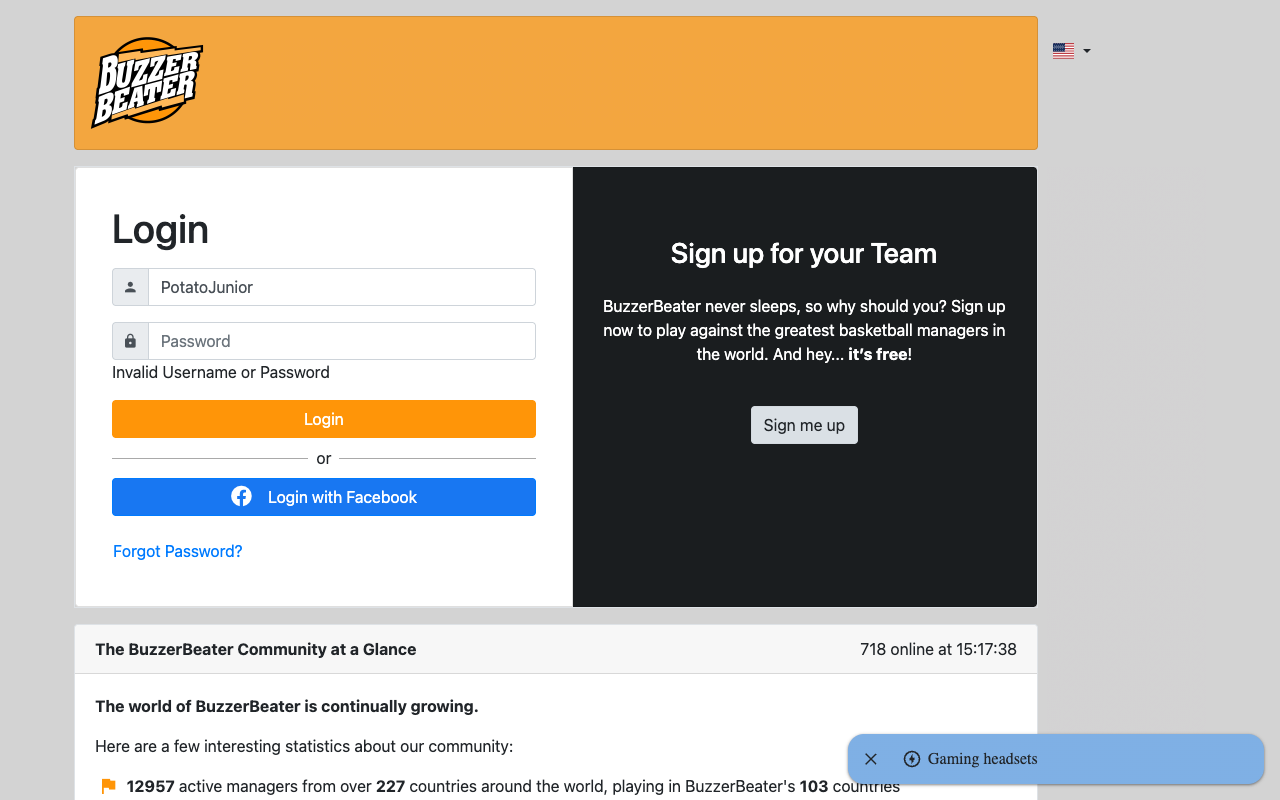
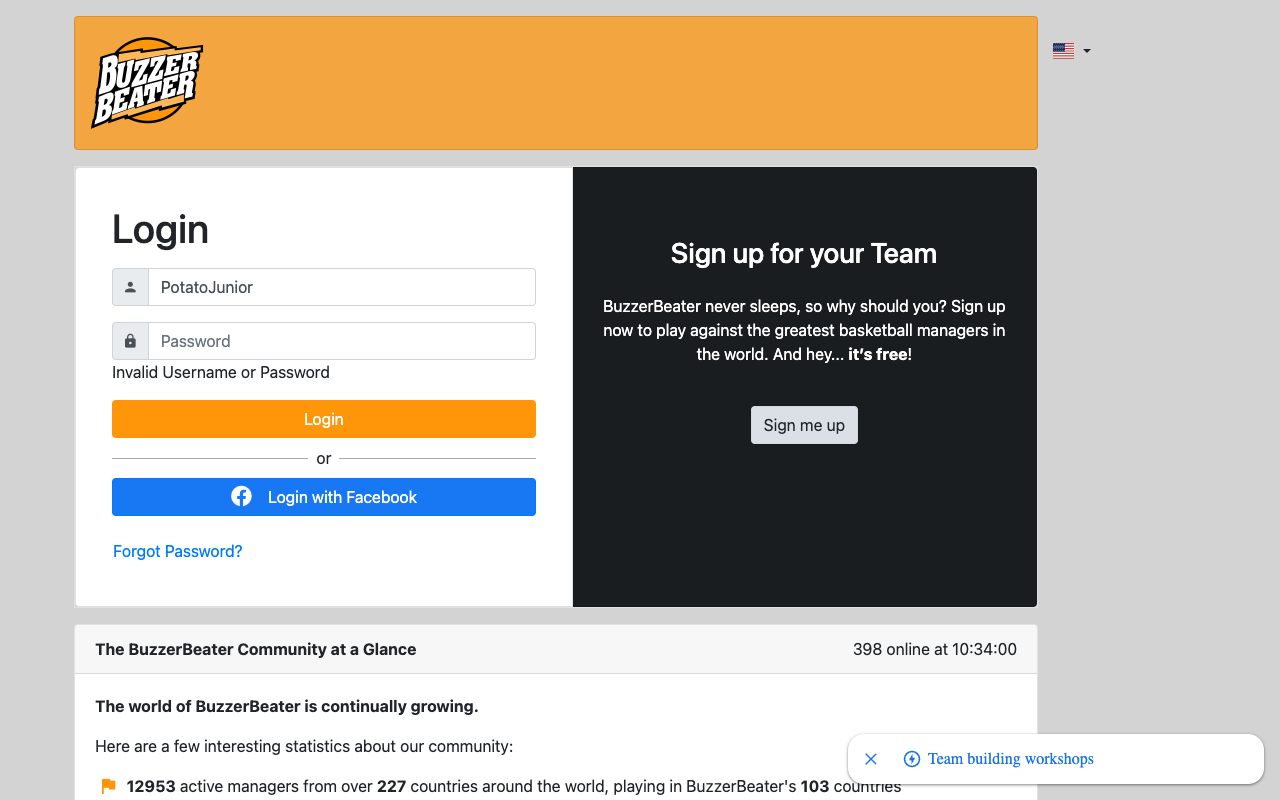
u21dle bug

Changed region(s): [[0.125, 0.9062, 1.0, 1.0], [0.6562, 0.7812, 0.7812, 0.8438]]

diff --git a/src/lib/u21dle/puzzle-date.ts b/src/lib/u21dle/puzzle-date.ts
@@ -1,0 +1,44 @@
+/**
+ * U21dle puzzle calendar dates are interpreted in Israel (Asia/Jerusalem), not UTC.
+ * Using UTC midnight from toISOString() made "today" wrong for evening Israel time
+ * and caused the UI to show yesterday's puzzle.
+ */
+
+export const U21DLE_PUZZLE_TIMEZONE =
+  process.env.U21DLE_PUZZLE_TIMEZONE || "Asia/Jerusalem";
+
+/** YYYY-MM-DD for the calendar day in the puzzle timezone (default Israel). */
+export function calendarDateInPuzzleTZ(d: Date = new Date(), tz: string = U21DLE_PUZZLE_TIMEZONE): string {
+  const fmt = new Intl.DateTimeFormat("en-CA", {
+    timeZone: tz,
+    year: "numeric",
+    month: "2-digit",
+    day: "2-digit",
+  });
+  const parts = fmt.formatToParts(d);
+  const y = parts.find((p) => p.type === "year")?.value;
+  const m = parts.find((p) => p.type === "month")?.value;
+  const day = parts.find((p) => p.type === "day")?.value;
+  return `${y}-${m}-${day}`;
+}
+
+/** Default cron: insert puzzle for N calendar days ahead in puzzle TZ (approximate via wall-clock ms). */
+export function calendarDateDaysAheadInPuzzleTZ(
+  daysAhead: number,
+  from: Date = new Date(),
+  tz: string = U21DLE_PUZZLE_TIMEZONE
+): string {
+  const ms = daysAhead * 24 * 60 * 60 * 1000;
+  return calendarDateInPuzzleTZ(new Date(from.getTime() + ms), tz);
+}
+
+/** Previous calendar day for YYYY-MM-DD (streak: consecutive puzzle dates). */
+export function previousCalendarDay(dateStr: string): string {
+  const [y, m, d] = dateStr.split("-").map(Number);
+  const ref = new Date(Date.UTC(y, m - 1, d, 12, 0, 0));
+  ref.setUTCDate(ref.getUTCDate() - 1);
+  const y2 = ref.getUTCFullYear();
+  const m2 = String(ref.getUTCMonth() + 1).padStart(2, "0");
+  const d2 = String(ref.getUTCDate()).padStart(2, "0");
+  return `${y2}-${m2}-${d2}`;
+}

diff --git a/src/app/api/u21dle/daily/route.ts b/src/app/api/u21dle/daily/route.ts
@@ -1,15 +1,16 @@
 import { NextResponse } from "next/server";
 import { getCurrentPuzzleDate, loadDailyDataWithSource } from "@/lib/u21dle/daily";
+import { calendarDateInPuzzleTZ } from "@/lib/u21dle/puzzle-date";
 
 export const dynamic = "force-dynamic";
 
 /**
  * Returns the current puzzle date (most recent ≤ today).
- * Same as Holdemle/Riftle: UTC today, Supabase query with .lte().order().limit(1), service role.
+ * "Today" = calendar day in Asia/Jerusalem (U21dle), not UTC.
  */
 export async function GET() {
   try {
-    const today = new Date().toISOString().split("T")[0];
+    const today = calendarDateInPuzzleTZ(new Date());
     console.log("[u21dle daily API] GET", { today, iso: new Date().toISOString() });
 
     const date = await getCurrentPuzzleDate();

diff --git a/src/lib/u21dle/daily.ts b/src/lib/u21dle/daily.ts
@@ -8,6 +8,7 @@ import { readFileSync, existsSync } from "fs";
 import { join } from "path";
 import { getU21dlePlayerById } from "./players";
 import type { U21dlePlayer } from "./feedback";
+import { calendarDateInPuzzleTZ } from "./puzzle-date";
 
 /** Path to daily puzzle JSON (fallback when Supabase unavailable) */
 const DAILY_PATH = join(process.cwd(), "data", "u21dle_daily.json");
@@ -91,11 +92,11 @@ async function loadDailyData(): Promise<Record<string, number>> {
 }
 
 /**
- * Returns the most recent puzzle_date that exists, where puzzle_date <= today.
+ * Returns the most recent puzzle_date that exists, where puzzle_date <= today (Israel calendar day).
  * Before the daily cron runs, this may return yesterday's date.
  */
 export async function getCurrentPuzzleDate(): Promise<string | null> {
-  const today = new Date().toISOString().slice(0, 10);
+  const today = calendarDateInPuzzleTZ(new Date());
   const data = await loadDailyData();
   const dates = Object.keys(data).filter((d) => d <= today).sort();
   if (dates.length === 0) return null;

diff --git a/src/lib/u21dle/supabase.ts b/src/lib/u21dle/supabase.ts
@@ -3,6 +3,7 @@
  */
 
 import { createClient } from "@supabase/supabase-js";
+import { previousCalendarDay } from "@/lib/u21dle/puzzle-date";
 
 function getSupabase(accessToken?: string) {
   const url = process.env.NEXT_PUBLIC_SUPABASE_URL;
@@ -147,7 +148,6 @@ export async function updateUserStats(
     .eq("user_id", user.user.id)
     .maybeSingle();
 
-  const today = new Date().toISOString().slice(0, 10);
   const lastPlayed = existing?.last_played_date as string | null;
   const currentStreak = existing?.current_streak ?? 0;
   const maxStreak = existing?.max_streak ?? 0;
@@ -156,7 +156,7 @@ export async function updateUserStats(
   let newMaxStreak = maxStreak;
 
   if (result.won) {
-    const yesterday = new Date(Date.now() - 86400000).toISOString().slice(0, 10);
+    const yesterday = previousCalendarDay(puzzleDate);
     newCurrentStreak = lastPlayed === yesterday ? currentStreak + 1 : 1;
     newMaxStreak = Math.max(maxStreak, newCurrentStreak);
   } else {